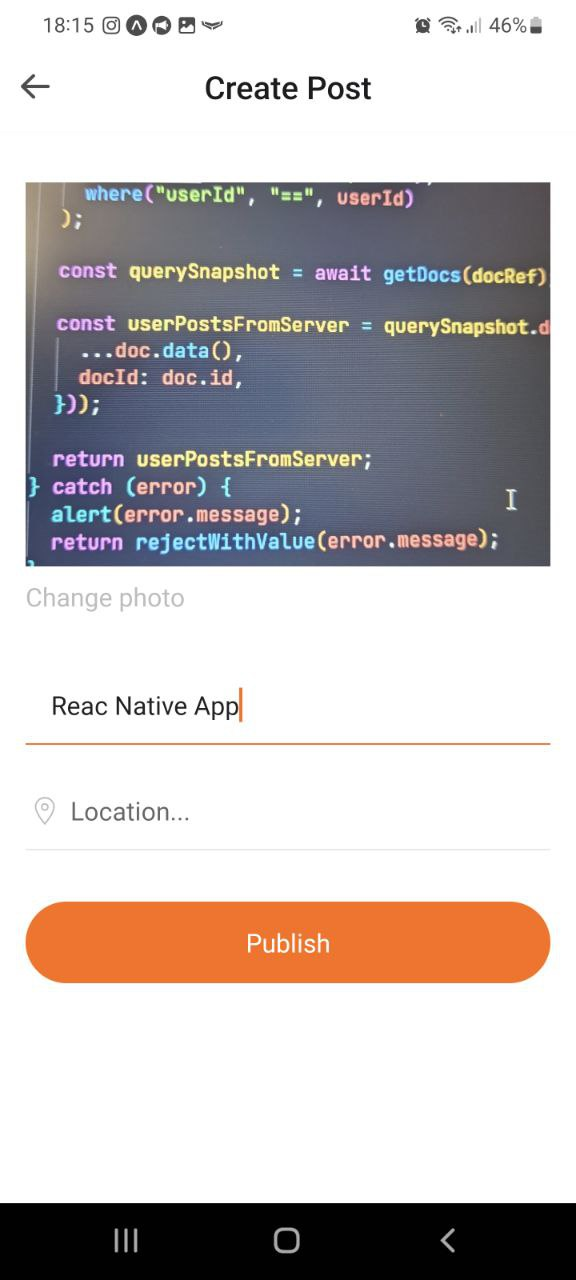
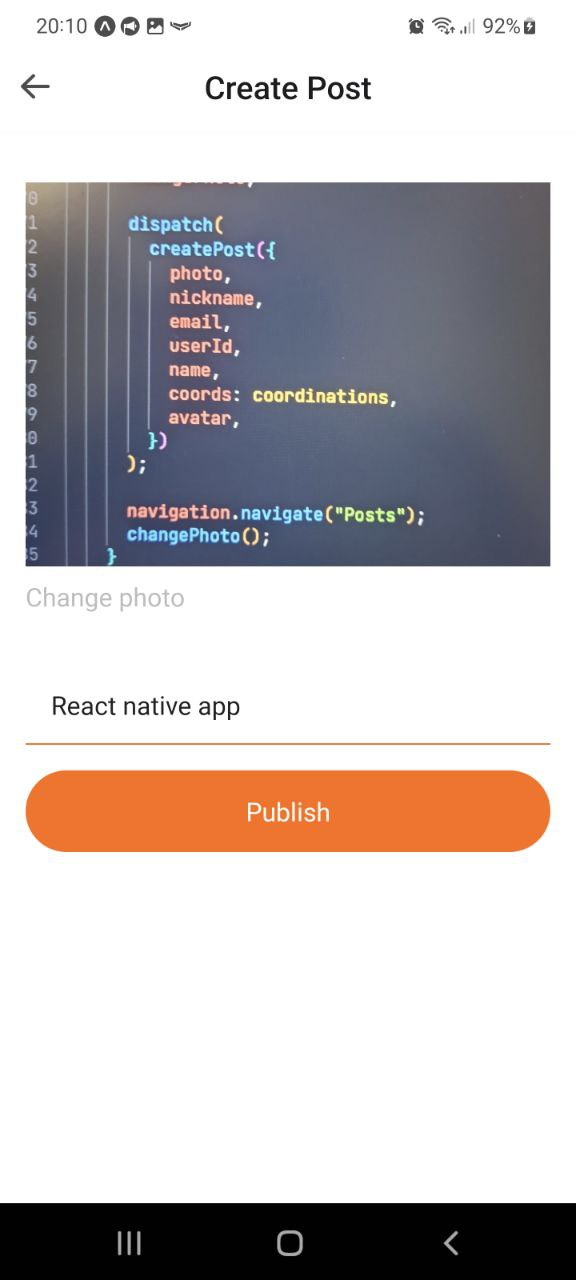
Update readme

diff --git a/src/Components/Posts/CreatePost/CreatePostForm.jsx b/src/Components/Posts/CreatePost/CreatePostForm.jsx
@@ -102,7 +102,7 @@ export default function CreatePostForm({ navigation, photo, changePhoto }) {
       />
 
       <View>
-        <CustomTextInput
+        {/* <CustomTextInput
           paddingLeft={28}
           isPrimaryInput={false}
           onChangeText={(value) => {
@@ -111,7 +111,7 @@ export default function CreatePostForm({ navigation, photo, changePhoto }) {
           value={location}
           placeholder="Location..."
           marginBottom={32}
-        />
+        /> */}
         <View style={iconContainer}>
           <EvilIcons name="location" size={24} color="#BDBDBD" />
         </View>

diff --git a/src/Components/Posts/Post/CommentsAndLocationBlock.jsx b/src/Components/Posts/Post/CommentsAndLocationBlock.jsx
@@ -35,13 +35,13 @@ export default function CommentsAndLocationBlock({
         <Text style={commentsText}>Comments</Text>
       </TouchableOpacity>
 
-      <TouchableOpacity
+      {/* <TouchableOpacity
         style={{ ...iconContainer, minWidth: 50 }}
         onPress={() => {}}
       >
         <AntDesign name="like2" size={20} color="#BDBDBD" />
         <Text style={likesText}>Likes</Text>
-      </TouchableOpacity>
+      </TouchableOpacity> */}
 
       <TouchableOpacity
         style={{ ...iconContainer, marginLeft: "auto" }}

diff --git a/README.md b/README.md
@@ -18,7 +18,6 @@
   <img src="./assets/screenshots/login.jpg" alt="login" width="300"/>
   <img src="./assets/screenshots/login-second.jpg" alt="SignIn-Camera" width="300"/>
 
-
 ### Sign up Screen
 
 - Hover over the selected input.
@@ -28,7 +27,7 @@
 - Add avatar camera window, an optional field by default the user will get an avatar.
 - When you click on the plus, the camera will open. A button to take a picture and a flip camera button are available. Once the picture is taken, a cross icon is available that will reset the avatar box to its original state.
 - After confirming the registration, the user goes to the Home component, where Tab Navigation is available (Posts by default, Create Posts Screen, Profile Screen)
-  
+
   <img src="./assets/screenshots/registration.jpg" alt="SignUp" width="300"/>
   <img src="./assets/screenshots/registation-camera.jpg" alt="SignIn-Camera" width="300"/>
   <img src="./assets/screenshots/registration-delete.jpg" alt="SignIn-Delete" width="300"/>
@@ -49,8 +48,8 @@
 ### Create Posts Screen
 
 - When first entering the screen, the user will be asked for permission to access the camera and geolocation.
-- The screen displays a camera with the ability to flip the camera, the name, and location fields (the location field is not a required field)
-- There is data validation required data is a photo and name (location field is not a required field)
+- The screen displays a camera with the ability to flip the camera, and field name.
+- There is data validation required data is a photo and name.
 - After the picture is taken, the inscription to change the photo appears.
 - After clicking on the publish button, the user is transferred to the Posts Screen
 
@@ -63,4 +62,3 @@
   and user posts.
 
   <img src="./assets/screenshots/profile-screen.jpg" alt="ProfileScreen" width="300"/>
-
